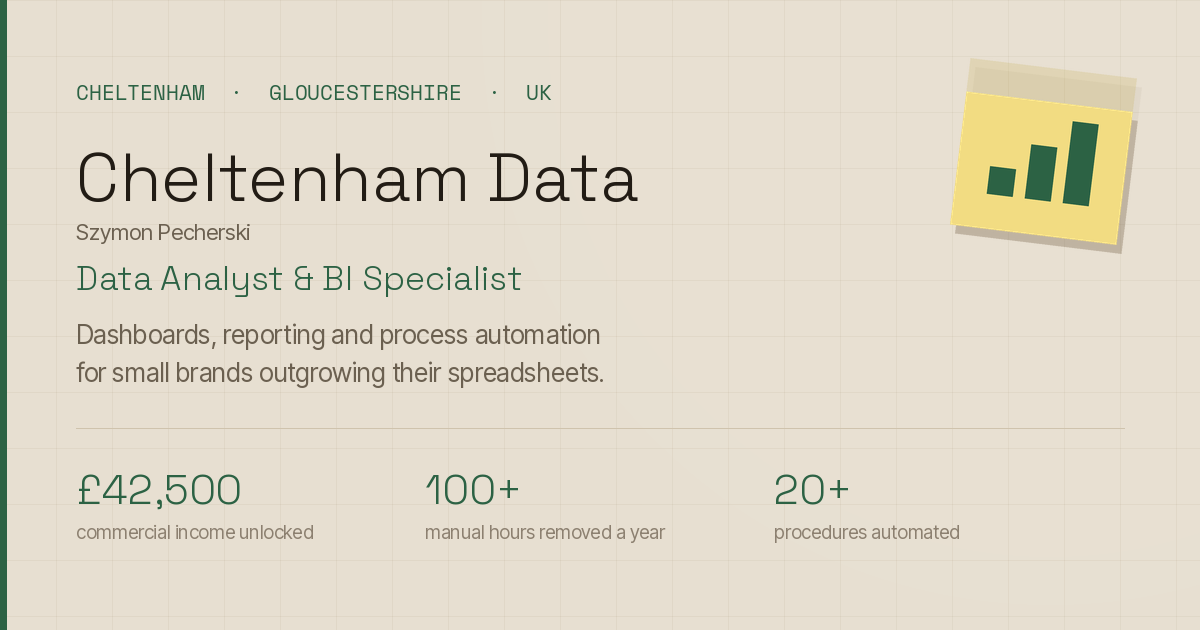
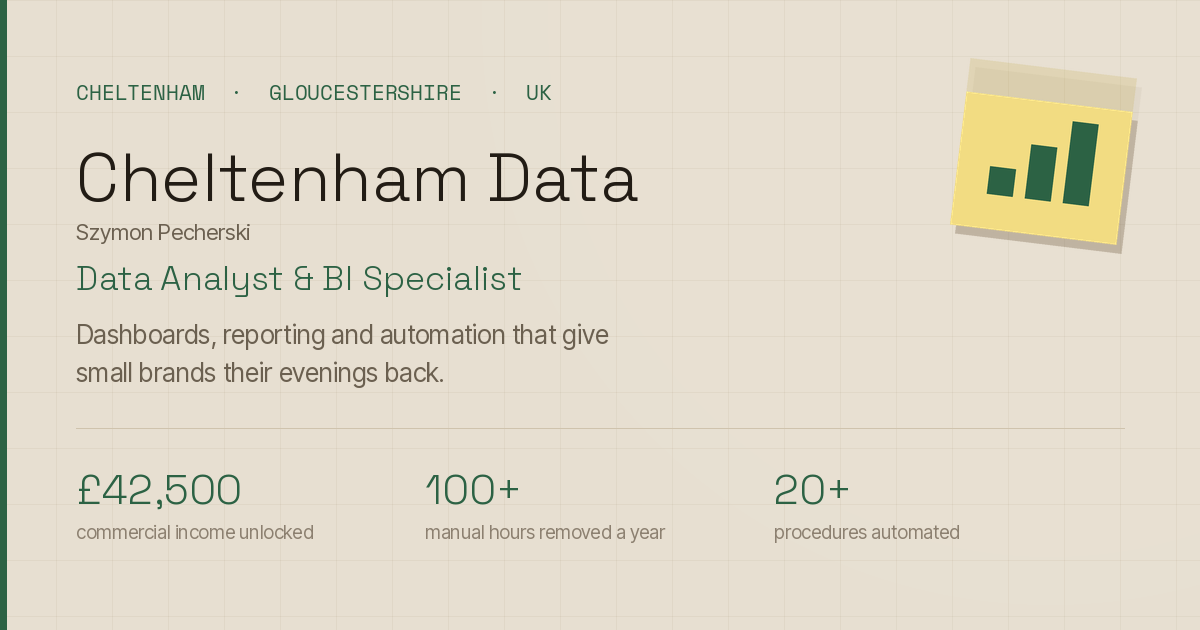
Align the share card and the archived prototypes with the new headline
- og-image.png: the two body lines now read "Dashboards, reporting and
  automation that give small brands their evenings back." Changed at source
  in tools/build_assets.py and regenerated, so layout, typeface, palette,
  sticky note and the stat row are byte-for-byte the same intent — only the
  copy moved. This was the largest element on a shared link still framed as
  capability rather than outcome.
- design/a-ledger, b-instrument, c-workshop, d-bench, d-paper: headline
  updated so the archived prototypes stay honest snapshots of the live site.
  Nothing else in them changed; they remain unlinked from the public site.

Claude-Session: https://claude.ai/code/session_01XdRJ8ANDngxNBKHs4XU2jq

Changed region(s): [[0.0617, 0.5127, 0.5242, 0.6333]]

diff --git a/design/b-instrument/index.html b/design/b-instrument/index.html
@@ -242,7 +242,7 @@ footer .fl a:hover{color:var(--oak)}
     <section class="hero">
       <div class="hero-l">
         <span class="avail"><i class="dot"></i>Taking on freelance projects — Cheltenham and remote UK-wide</span>
-        <h1>Data analysis and automation that <em>pays for itself.</em></h1>
+        <h1>Data analysis and automation that <em>gives you your time back.</em></h1>
         <p class="strap"><b>Cheltenham Data</b> is the practice of Szymon Pecherski, a <b>data analyst and
         business intelligence specialist in Cheltenham</b>. I help small and growing UK businesses replace
         manual, error-prone processes with automated systems, clean data and reporting people actually

diff --git a/design/d-bench/index.html b/design/d-bench/index.html
@@ -332,7 +332,7 @@ footer{border-top:1px dashed var(--line-2);background:var(--deep);padding:44px 0
       <i></i><span>Taking on freelance projects — Cheltenham and remote UK-wide</span>
     </span>
 
-    <h1>Data analysis and automation that <em>pays for itself.
+    <h1>Data analysis and automation that <em>gives you your time back.
       <svg class="ink" viewBox="0 0 420 20" preserveAspectRatio="none" aria-hidden="true">
         <path d="M6 12C96 4 232 3 414 8" stroke-width="2.4" vector-effect="non-scaling-stroke" pathLength="1000"/>
         <path d="M14 18C104 11 244 10 408 15" stroke-width="1.4" vector-effect="non-scaling-stroke" pathLength="1000"/>

diff --git a/design/d-paper/index.html b/design/d-paper/index.html
@@ -402,7 +402,7 @@ footer{border-top:1px dashed var(--line-2);background:var(--deep);padding:44px 0
       <i></i><span>Taking on freelance projects — Cheltenham and remote UK-wide</span>
     </span>
 
-    <h1>Data analysis and automation that <em>pays for itself.
+    <h1>Data analysis and automation that <em>gives you your time back.
       <svg class="ink" viewBox="0 0 420 20" preserveAspectRatio="none" aria-hidden="true">
         <path d="M6 12C96 4 232 3 414 8" stroke-width="2.4" vector-effect="non-scaling-stroke" pathLength="1000"/>
         <path d="M14 18C104 11 244 10 408 15" stroke-width="1.4" vector-effect="non-scaling-stroke" pathLength="1000"/>

diff --git a/design/c-workshop/index.html b/design/c-workshop/index.html
@@ -336,7 +336,7 @@ footer{border-top:1px dashed var(--line-2);background:var(--deep);padding:44px 0
     <span class="avail"><i></i>Taking on freelance projects — Cheltenham and remote UK-wide</span>
 
     <h1>Data analysis and automation that
-      <span class="circled">pays for itself.
+      <span class="circled">gives you your time back.
         <svg class="ink" viewBox="0 0 340 100" preserveAspectRatio="none" aria-hidden="true">
           <path d="M296 18C232 6 108 4 52 18 8 29 2 62 44 80c58 25 214 22 274 4 33-10 33-42-16-56"
             stroke-width="2.1" vector-effect="non-scaling-stroke" pathLength="1000"/>

diff --git a/design/a-ledger/index.html b/design/a-ledger/index.html
@@ -241,7 +241,7 @@ footer{border-top:1px solid var(--line-2);background:var(--deep);padding:44px 0 
       <div class="rh">Issued<br>Aug 2026</div>
     </div>
     <div class="head">
-      <h1>Data analysis<br>and automation<br>that <em>pays for itself.</em></h1>
+      <h1>Data analysis<br>and automation<br>that <em>gives you<br>your time back.</em></h1>
     </div>
     <p class="strap">
       <b>Cheltenham Data</b> is the practice of Szymon Pecherski, a <b>data analyst and business

diff --git a/tools/build_assets.py b/tools/build_assets.py
@@ -324,9 +324,9 @@ def build_og() -> None:
     y += 38
     d.text((PAD, y), "Data Analyst & BI Specialist", font=f_role, fill=P_ACCENT)
     y += 62
-    d.text((PAD, y), "Dashboards, reporting and process automation", font=f_body, fill=P_MUTED)
+    d.text((PAD, y), "Dashboards, reporting and automation that give", font=f_body, fill=P_MUTED)
     y += 38
-    d.text((PAD, y), "for small brands outgrowing their spreadsheets.", font=f_body, fill=P_MUTED)
+    d.text((PAD, y), "small brands their evenings back.", font=f_body, fill=P_MUTED)
 
     sy = H - 168
     d.line([(PAD, sy - 34), (W - PAD, sy - 34)], fill=P_LINE, width=1)
